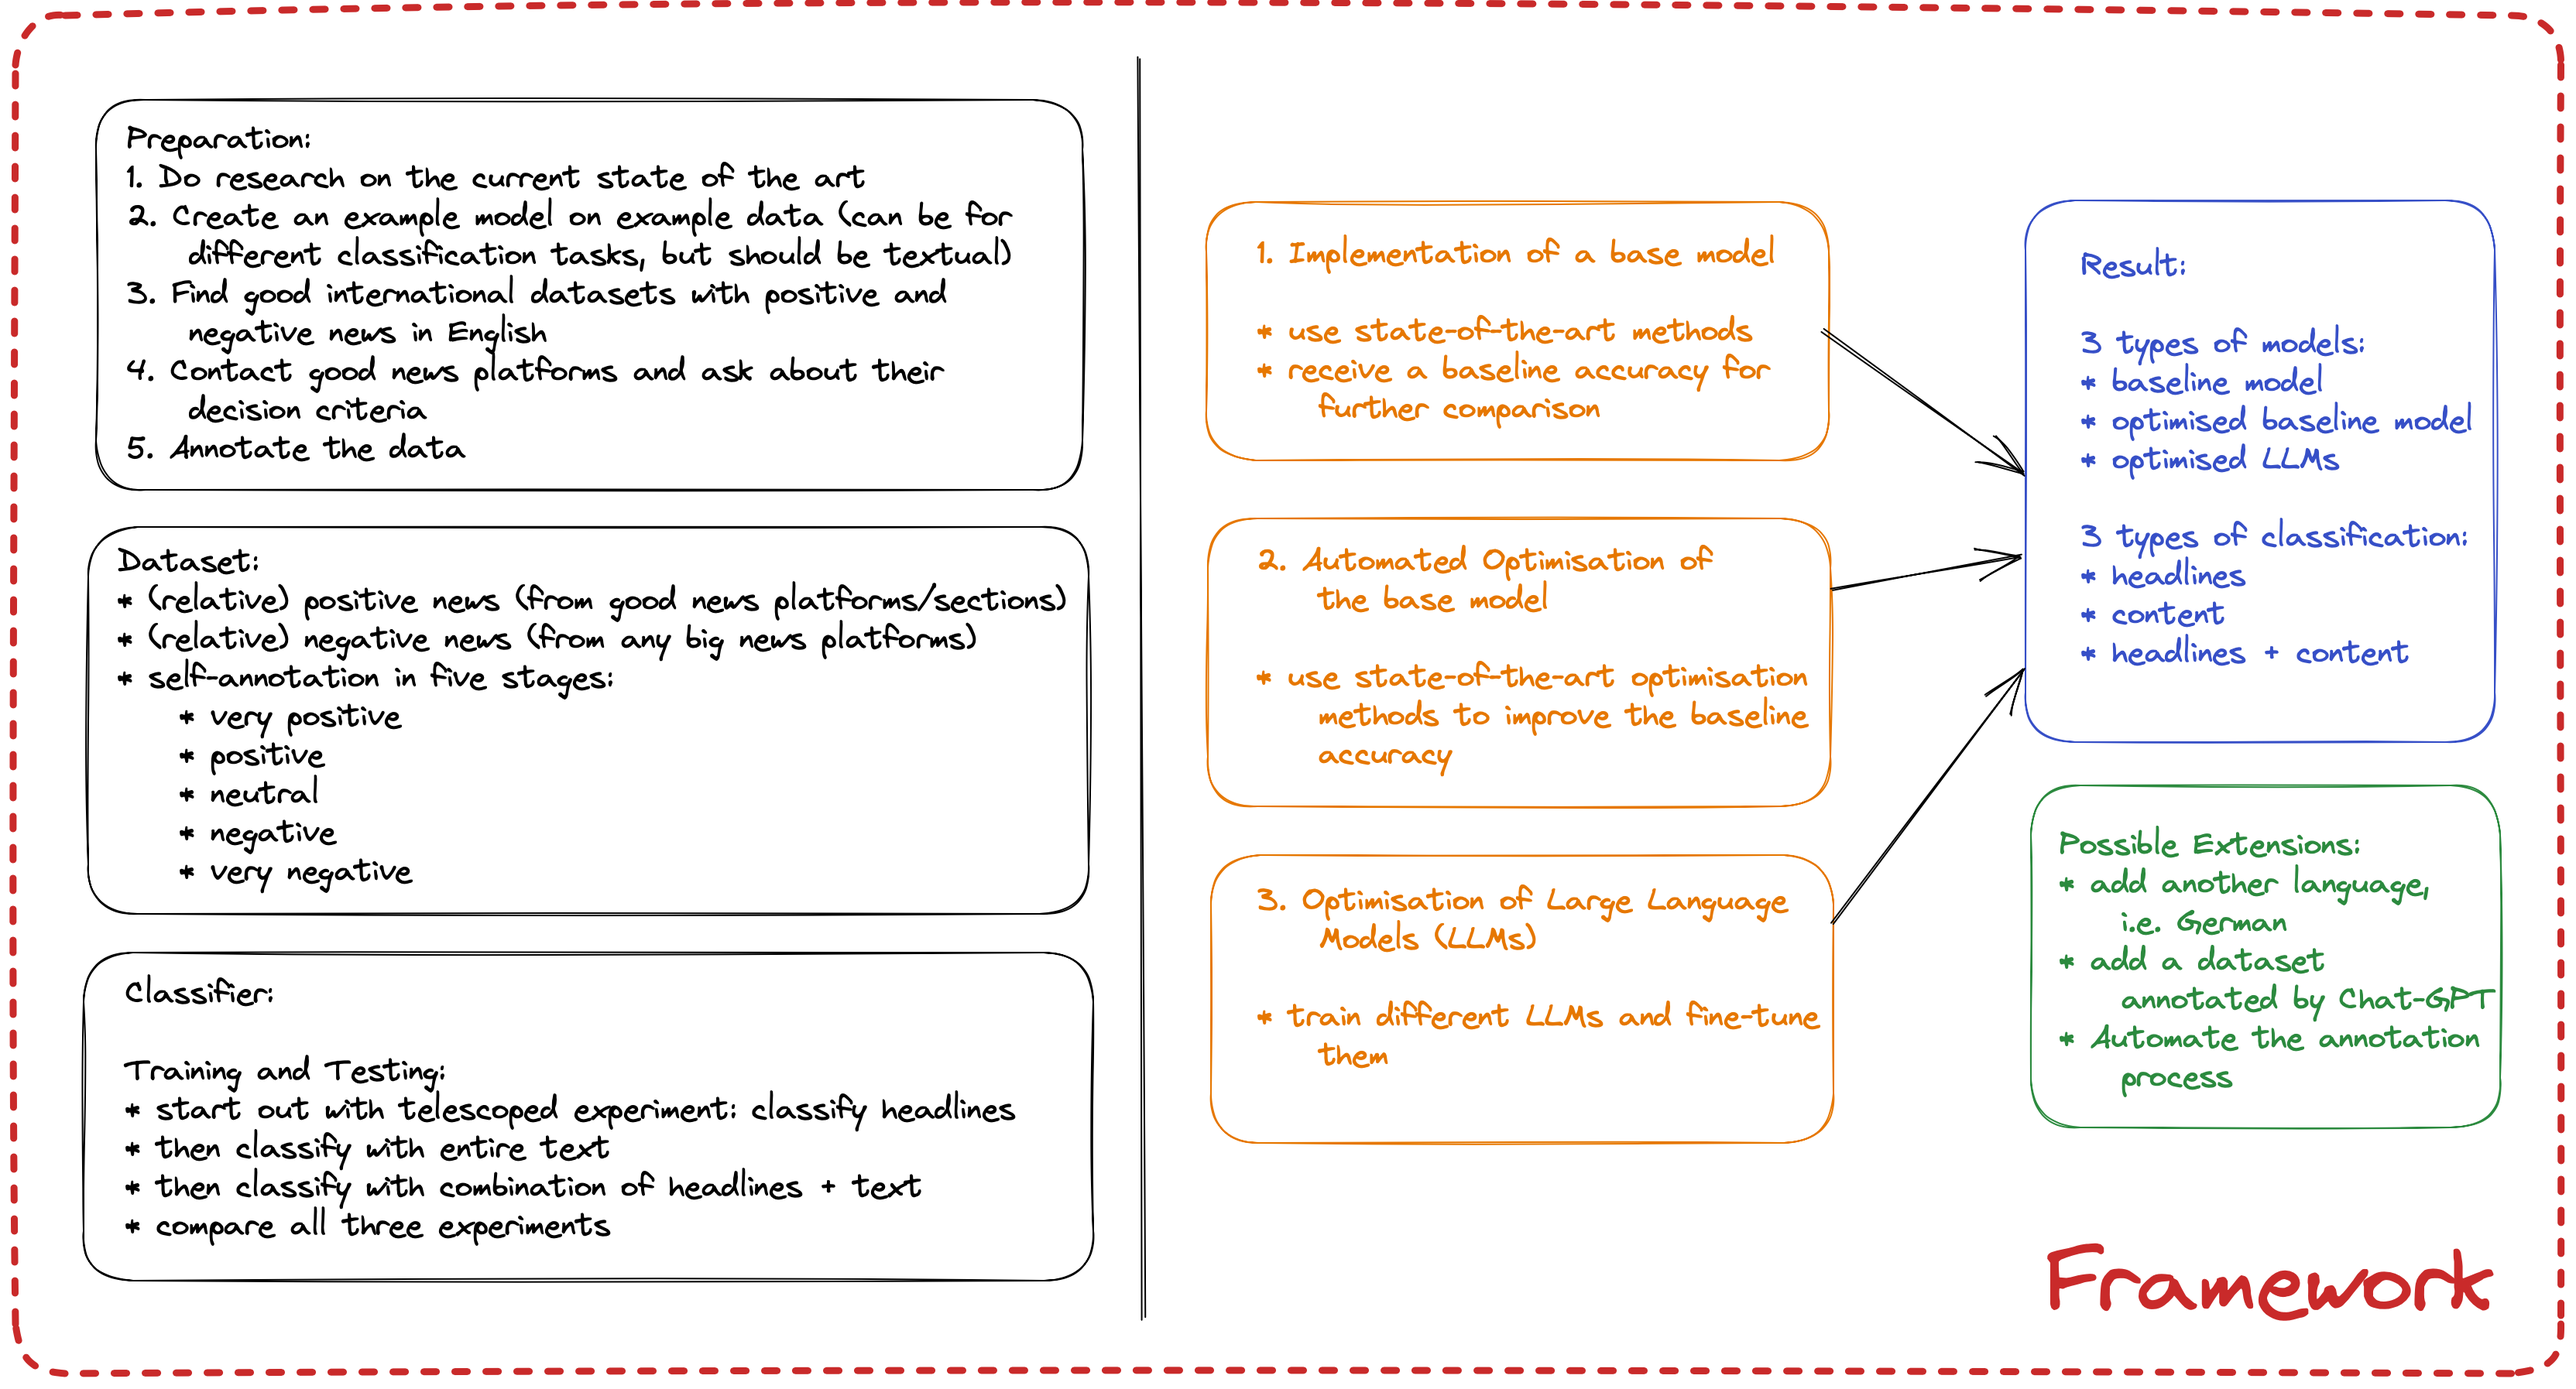
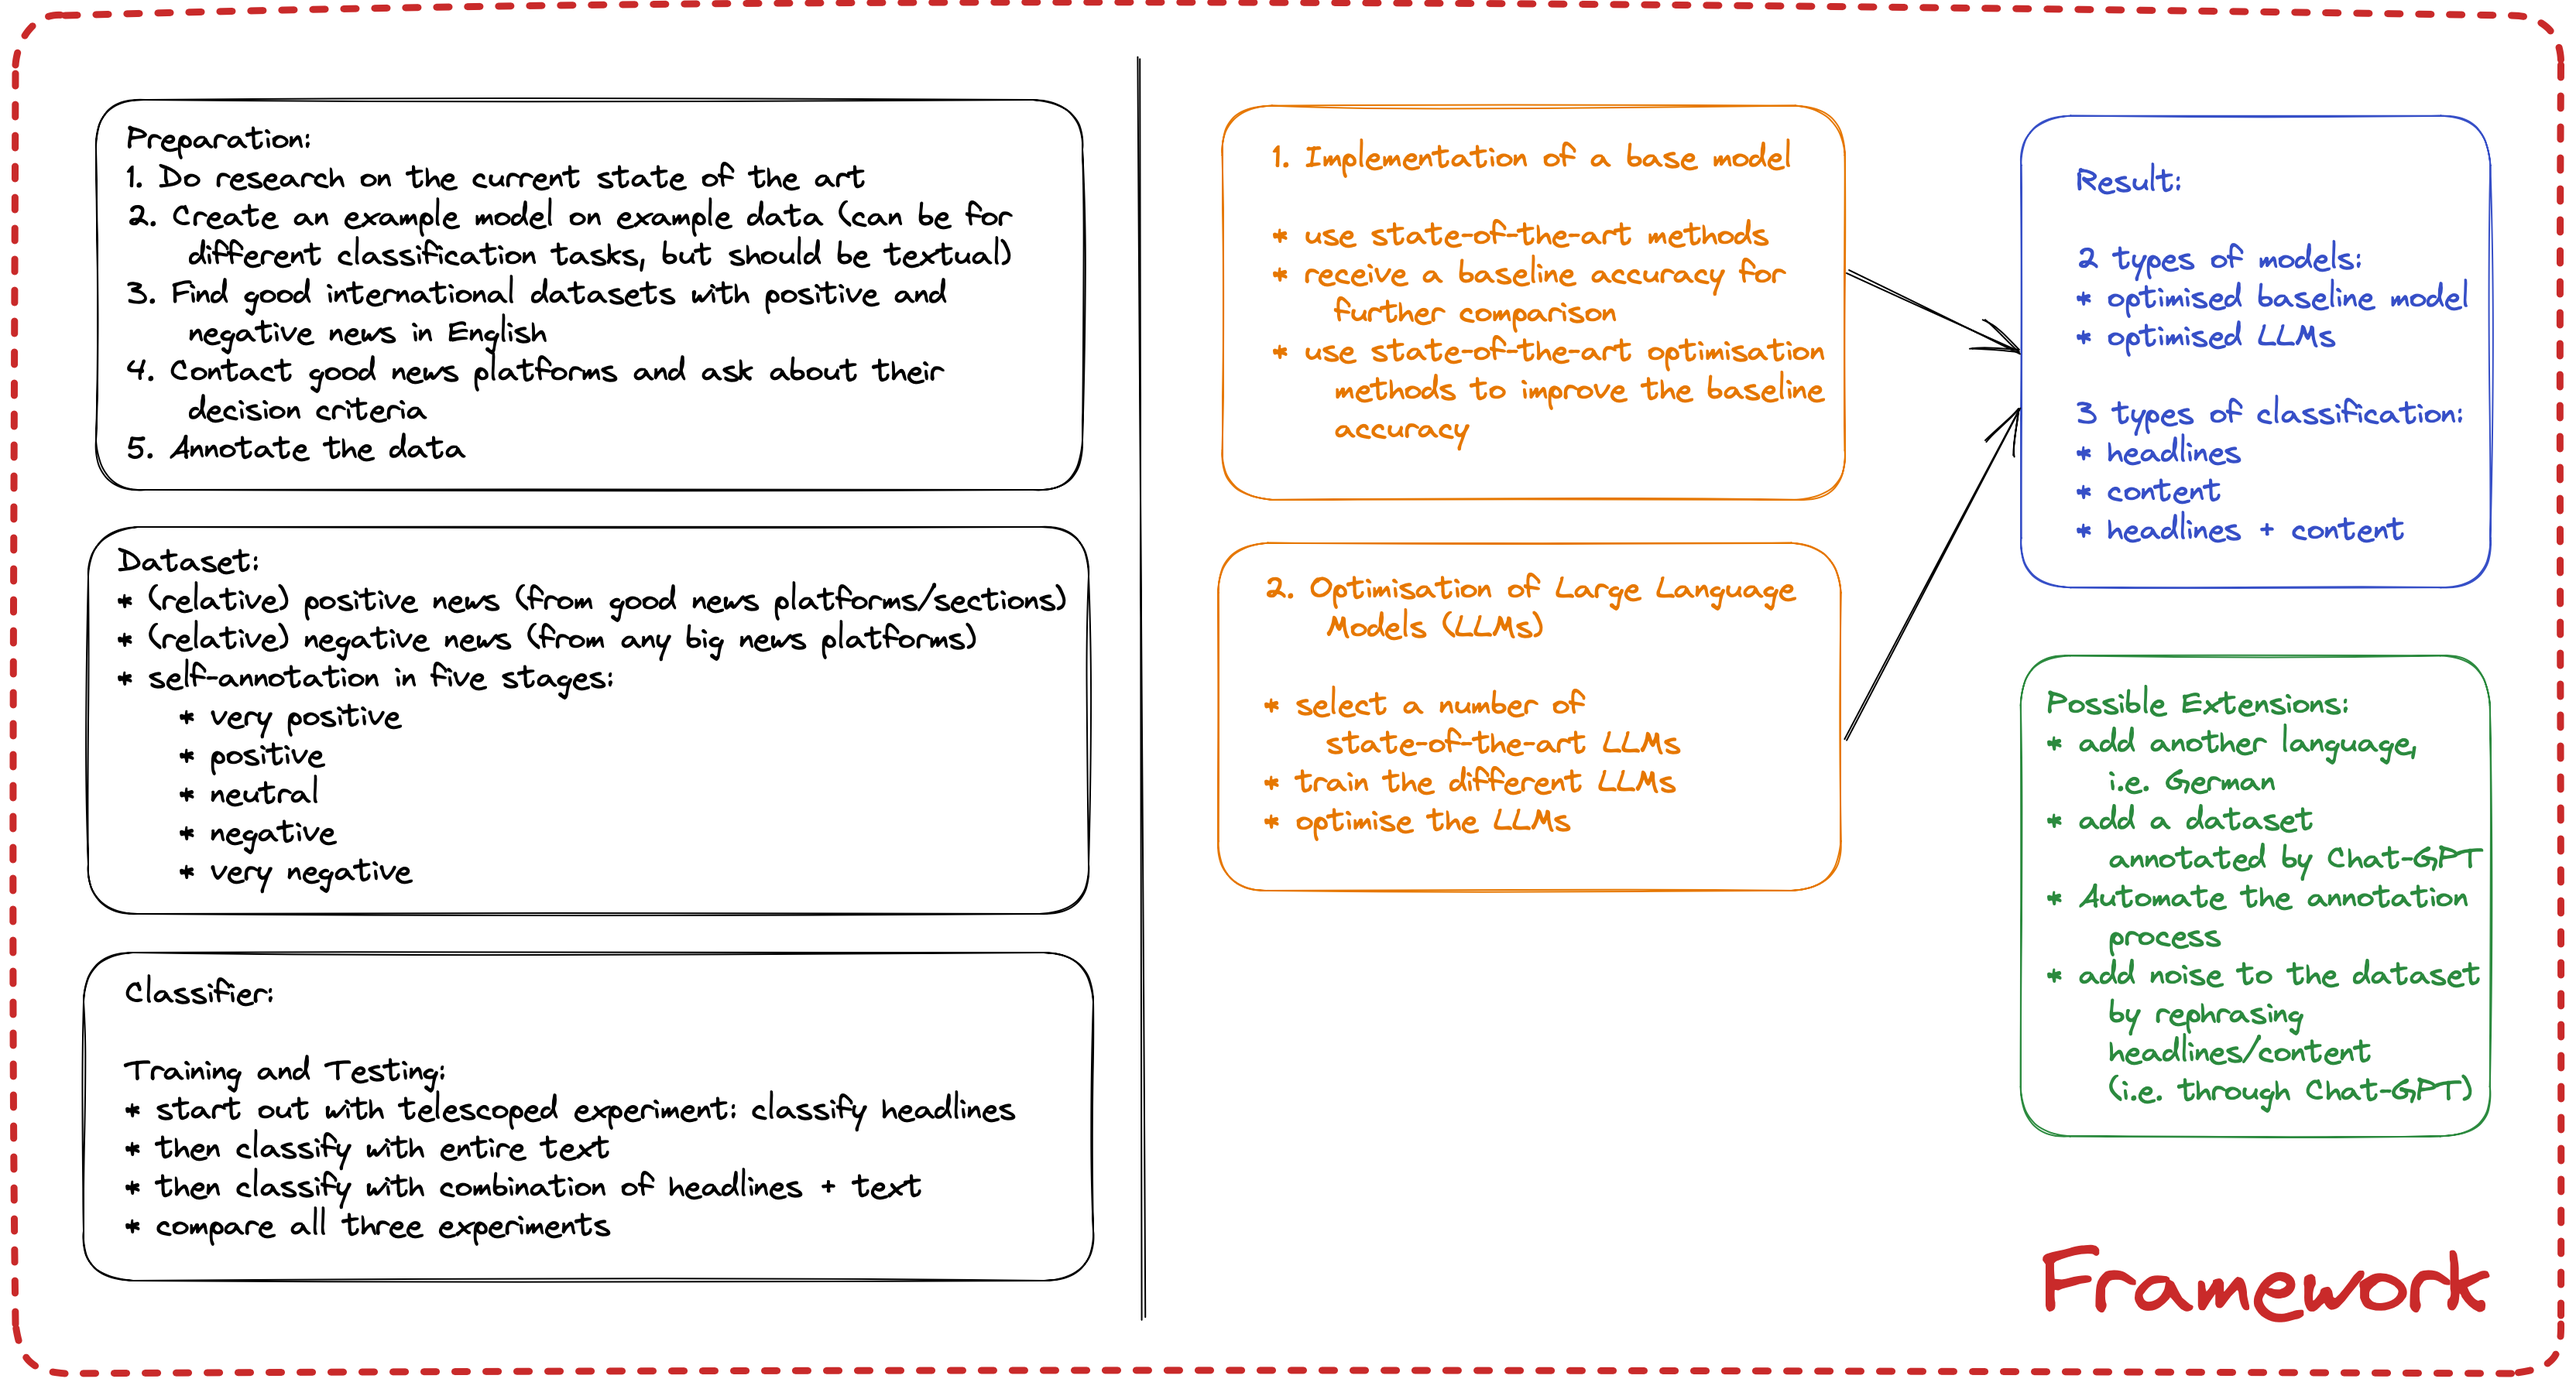
finalise proposal

diff --git a/proposal/project_objectives.md b/proposal/project_objectives.md
@@ -2,8 +2,7 @@
 
 ## List a series of objectives you need to achieve in order to fulfil the aims of your project.
 
-The main objective is to create a framework for a classifier which discriminates between positive and negative news. In order to receive the best possible outcomes, there will be three types of models:
-* baseline model
+The main objective is to create a framework for a classifier which discriminates between positive and negative news. In order to receive the best possible outcomes, there will be two types of models:
 * optimised baseline model
 * optimised Large Language Models (LLMs)
 
@@ -12,7 +11,7 @@ These three types of models will be trained and tested on three types of classif
 * content
 * headlines + content
 
-Hence, at the end, there will be a minimum of nine different classifiers that can be prepared to each other and to the current state-of-the-art.
+Hence, at the end, there will be a minimum of six different classifiers that can be prepared to each other and to the current state-of-the-art.
 
 ## State how your project will be aligned with the learning outcomes of your programme of study.
 

diff --git a/proposal/project_milestones.md b/proposal/project_milestones.md
@@ -3,7 +3,7 @@
 ## Indicate what measurable/tangible components you will produce as part of this project.  This may take the form of deliverable document(s) or developmental milestones such as a working piece of software/hardware. 
 
 The final component will be the framework, which would be available open-source. When breaking the various parts of the framework down, it is easily separated into the dataset and the classifier. The dataset contains self-annotated data, which will be made publicly-available. 
-The classifier component entails the three developed types of classifiers, which were all trained and tested with three types of data, hence, at least 9 different classifiers. 
+The classifier component entails the two developed types of classifiers, which were all trained and tested with three types of data, hence, at least six different classifiers. 
 
 This framework can then be used to successfully classify a news article as positive or negative.
 

diff --git a/proposal/project_methodology.md b/proposal/project_methodology.md
@@ -17,6 +17,8 @@ The above image shows the general methodology regarding the final framework.
 The above steps leave room for further possible extensions, if time and resources allow it:
 1. add news articles in other languages than English to the dataset
 2. let Chat-GPT annotate the dataset
+3. automate the entire annotation process
+4. add noise to the dataset by rephrasing headlines/content, for example using Chat-GPT
 
 Justification:
 - In order to use classifiers in applications, they need to undergo certain training and testing stages to ensure safety and quality

diff --git a/proposal/thesis_proposal.md b/proposal/thesis_proposal.md
@@ -109,10 +109,3 @@ This can be a GANTT chart submitted with this document or a list of tasks, miles
 
 [[Timeplan]]
 
-Example
-
-hello
-
-
-n;kb/mjnbl;'
-
